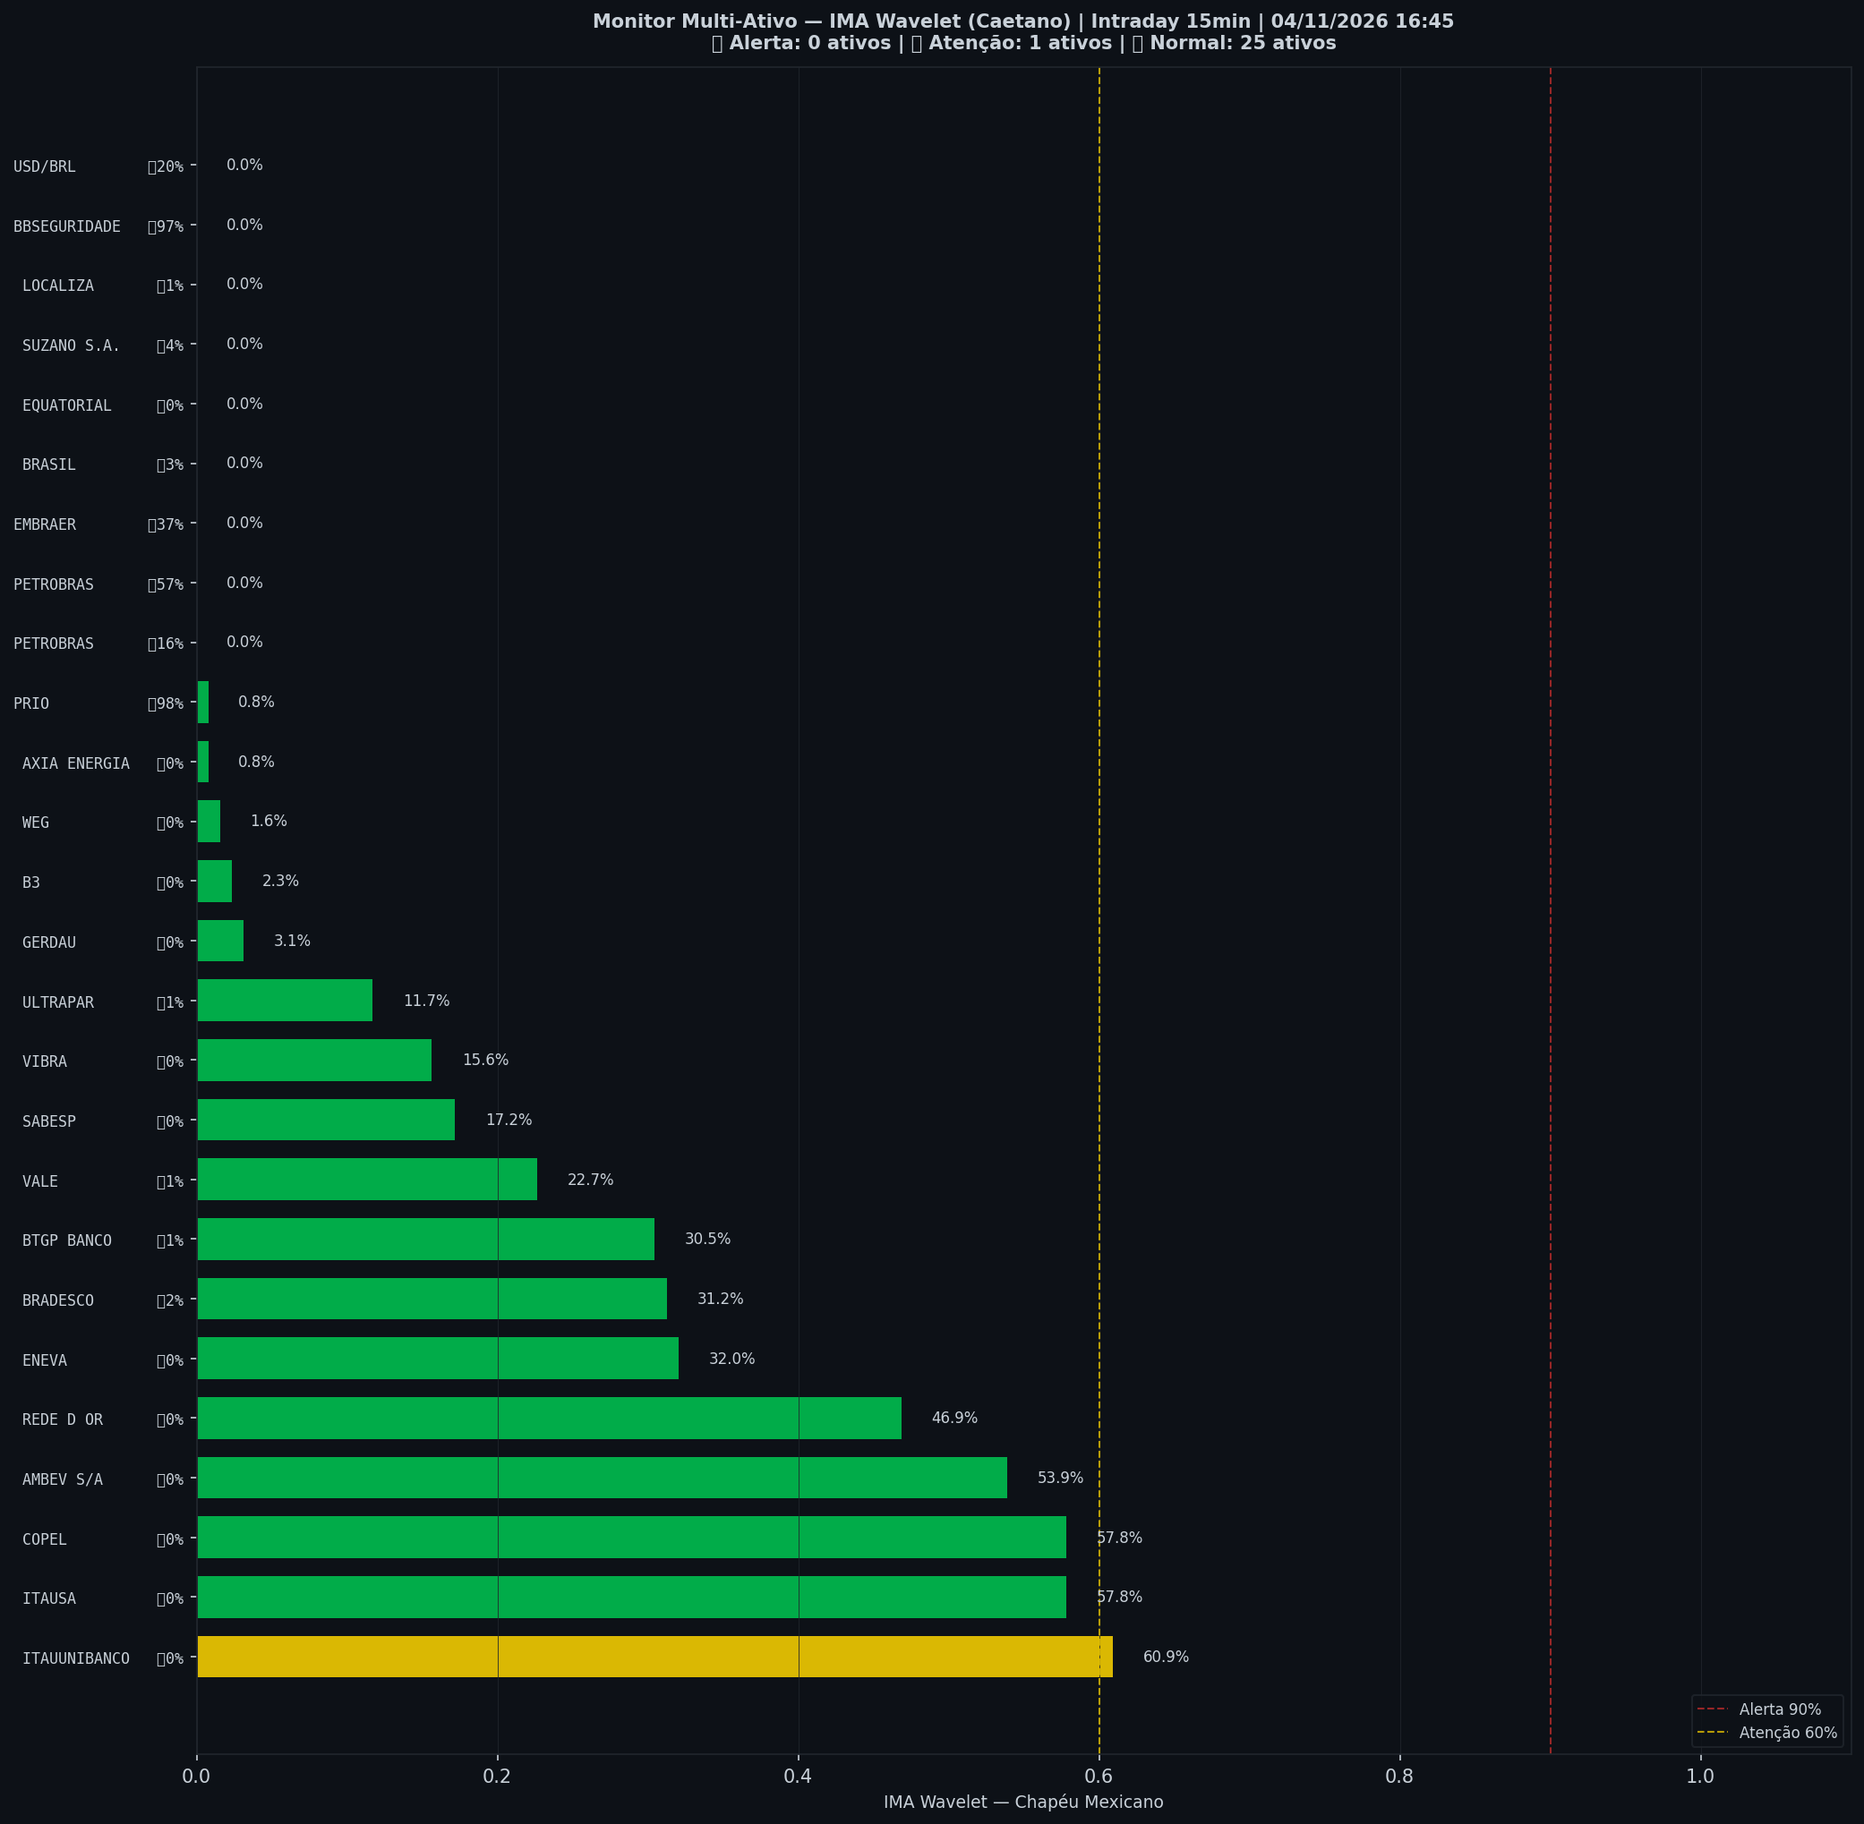
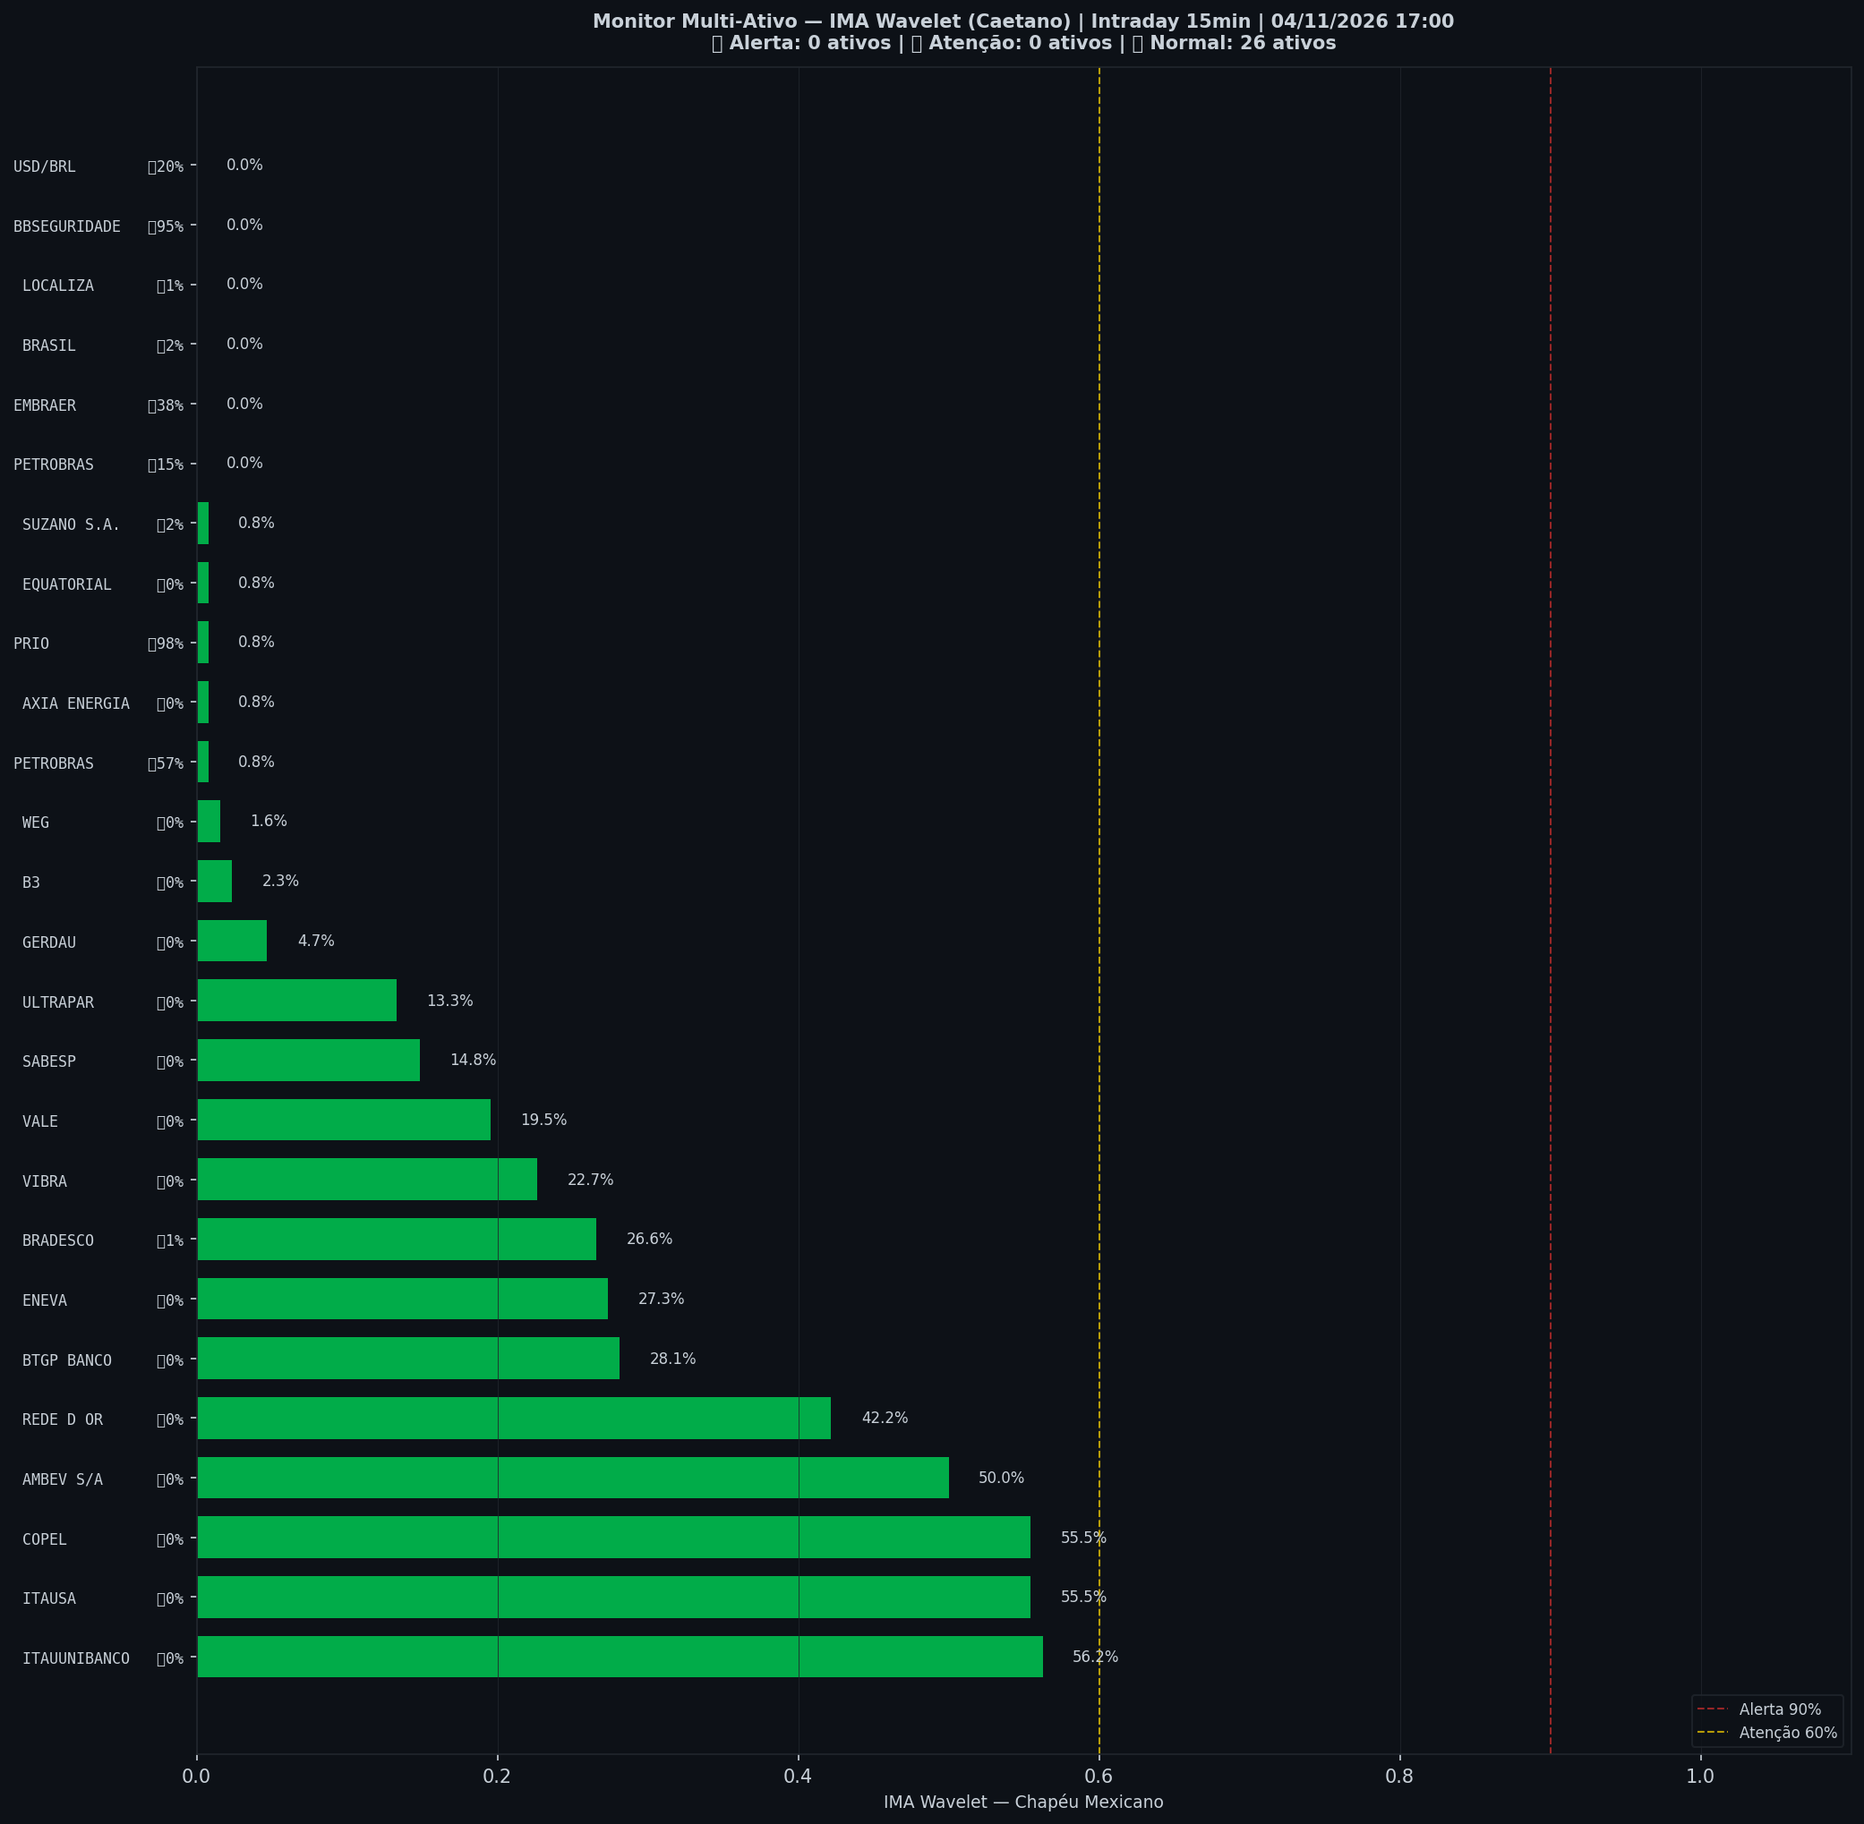
🤖 Auto: Sinal 04/11/2026 17:00

diff --git a/content/intraday/2026-11-04.md b/content/intraday/2026-11-04.md
@@ -1,10 +1,10 @@
 ---
-title: "🟢 Intraday 04/11/2026 16:30 BRT — VERDE"
+title: "🟢 Intraday 04/11/2026 16:45 BRT — VERDE"
 date: 2026-11-04
 tags: [intraday]
 ---
 
-> [!success] Onde o mercado está agora (04/11 16:30, candles de 15 min): **🟢 Calmo**
+> [!success] Onde o mercado está agora (04/11 16:45, candles de 15 min): **🟢 Calmo**
 > `Pânico ◀──────────●──────────▶ Euforia`
 >
 > O Ibovespa está dentro da sua faixa normal, sem excesso para cima nem para baixo.
@@ -20,8 +20,8 @@ tags: [intraday]
 > | 📍 **Sinais** | hoje: nenhum sinal | [abrir](sinais-topo-fundo/) |
 > | 🧪 **Placar ao vivo** | 1 operação(ões), 0 com lucro, soma -0,8% | [abrir](operacoes/) |
 
-> [!success] IMA Intraday · 15 min (04/11 16:30): 🟢 **VERDE** — Risco 5% · ▼ -3 p.p. vs leitura anterior
-> `█░░░░░░░░░░░░░░░░░░░`
+> [!success] IMA Intraday · 15 min (04/11 16:45): 🟢 **VERDE** — Risco 1% · ▼ -4 p.p. vs leitura anterior
+> `░░░░░░░░░░░░░░░░░░░░`
 > Preço na faixa normal em torno da tendência.
 
 
@@ -32,13 +32,13 @@ tags: [intraday]
 >
 > *Leitura educacional baseada em 26 anos de dados, não recomendação. [Como usar](../metodologia/crise#3-como-usar-na-prática).*
 
-| Indicador — IMA Intraday · 15 min (04/11 16:30) | Valor |
+| Indicador — IMA Intraday · 15 min (04/11 16:45) | Valor |
 |---|---|
-| 🔴 ζ Topo — preço esticado acima da tendência | **5%** |
+| 🔴 ζ Topo — preço esticado acima da tendência | **1%** |
 | 🔵 ζ Fundo — preço esticado abaixo da tendência | 0% |
 | 🫧 LPPL bolha — alta super-exponencial (risco de crash) | 0% |
 | 🫧 LPPL antibolha — queda super-exponencial (risco de repique) | 0% |
-| 📊 Ibovespa | 167.281 pts |
+| 📊 Ibovespa | 167.331 pts |
 
 ![Gráfico do sinal](../graficos/sinal_intraday.png)
 
@@ -46,6 +46,7 @@ tags: [intraday]
 
 | Data | Zona | Evento | Risco | ζ Topo | ζ Fundo | LPPL |
 |---|---|---|---|---|---|---|
+| 2026-11-04 16:45 | 🟢 VERDE |  | **1%** | 1% | 0% | 0% |
 | 2026-11-04 16:30 | 🟢 VERDE |  | **5%** | 5% | 0% | 0% |
 | 2026-11-04 16:15 | 🟢 VERDE |  | **8%** | 8% | 0% | 0% |
 | 2026-11-04 16:00 | 🟢 VERDE |  | **12%** | 12% | 0% | 0% |
@@ -75,51 +76,50 @@ tags: [intraday]
 | 2026-11-04 10:00 | 🟢 VERDE |  | **27%** | 27% | 1% | 0% |
 | 2026-11-03 18:00 | 🟢 VERDE |  | **28%** | 28% | 0% | 0% |
 | 2026-11-03 17:45 | 🟢 VERDE |  | **29%** | 29% | 0% | 0% |
-| 2026-11-03 17:30 | 🟢 VERDE |  | **30%** | 30% | 0% | 0% |
 
 <small>Destaques: 🟡 ≥ 60% · 🔴 ≥ 90% (Risco e ζ Topo) · 🔵 ≥ 60% · 🔪 ≥ 90% (ζ Fundo) · 🫧 ≥ 30% · 🫧🔴 ≥ 50% (LPPL)</small>
 
 ## Monitor Multi-Ativo
 
-**4% dos ativos em tensão** (0🔴 4🟡) · **2 com ζ Fundo alto** — quanto mais ativos disparam juntos, mais confiável o sinal.
+**0% dos ativos em tensão** (0🔴 4🟡) · **2 com ζ Fundo alto** — quanto mais ativos disparam juntos, mais confiável o sinal.
 
 > [!danger] Em destaque no multi-ativo
-> 🔪 **PRIO** ζ Fundo 98% · 🔪 **BBSEGURIDADE** ζ Fundo 97% · 🟡 **ITAUUNIBANCO** ζ Topo 61%
+> 🔪 **PRIO** ζ Fundo 98% · 🔪 **BBSEGURIDADE** ζ Fundo 95%
 
 | Zona | Ativo | Setor | ζ Topo | ζ Fundo |
 |---|---|---|---|---|
 | 🟢 | **PRIO** | Petróleo | 0.8% | 🔪 **98.4%** |
-| 🟢 | **BBSEGURIDADE** | Financeiro | 0.0% | 🔪 **96.9%** |
-| 🟡 | **ITAUUNIBANCO** | Financeiro | 🟡 **60.9%** | 0.0% |
-| 🟡 | **ITAUSA** | Financeiro | 57.8% | 0.0% |
-| 🟡 | **COPEL** | Energia | 57.8% | 0.0% |
-| 🟢 | **PETROBRAS** | Petróleo | 0.0% | 57.0% |
-| 🟡 | **AMBEV S/A** | Consumo | 53.9% | 0.0% |
-| 🟢 | **REDE D OR** | Saúde | 46.9% | 0.0% |
-| 🟢 | **EMBRAER** | Outros | 0.0% | 36.7% |
-| 🟢 | **ENEVA** | Energia | 32.0% | 0.0% |
-| 🟢 | **BRADESCO** | Financeiro | 31.2% | 1.6% |
-| 🟢 | **BTGP BANCO** | Financeiro | 30.5% | 0.8% |
-| 🟢 | **VALE** | Mineração | 22.7% | 0.8% |
+| 🟢 | **BBSEGURIDADE** | Financeiro | 0.0% | 🔪 **94.5%** |
+| 🟢 | **PETROBRAS** | Petróleo | 0.8% | 57.0% |
+| 🟡 | **ITAUUNIBANCO** | Financeiro | 56.2% | 0.0% |
+| 🟡 | **ITAUSA** | Financeiro | 55.5% | 0.0% |
+| 🟡 | **COPEL** | Energia | 55.5% | 0.0% |
+| 🟡 | **AMBEV S/A** | Consumo | 50.0% | 0.0% |
+| 🟢 | **REDE D OR** | Saúde | 42.2% | 0.0% |
+| 🟢 | **EMBRAER** | Outros | 0.0% | 38.3% |
+| 🟢 | **BTGP BANCO** | Financeiro | 28.1% | 0.0% |
+| 🟢 | **ENEVA** | Energia | 27.3% | 0.0% |
+| 🟢 | **BRADESCO** | Financeiro | 26.6% | 0.8% |
+| 🟢 | **VIBRA** | Energia | 22.7% | 0.0% |
 | 🟢 | **USD/BRL** | Câmbio | 0.0% | 20.3% |
-| 🟢 | **SABESP** | Saneamento | 17.2% | 0.0% |
-| 🟢 | **PETROBRAS** | Petróleo | 0.0% | 15.6% |
-| 🟢 | **VIBRA** | Energia | 15.6% | 0.0% |
-| 🟢 | **ULTRAPAR** | Outros | 11.7% | 0.8% |
-| 🟢 | **SUZANO S.A.** | Papel/Celulose | 0.0% | 3.9% |
-| 🟢 | **BRASIL** | Financeiro | 0.0% | 3.1% |
-| 🟢 | **GERDAU** | Siderurgia | 3.1% | 0.0% |
+| 🟢 | **VALE** | Mineração | 19.5% | 0.0% |
+| 🟢 | **PETROBRAS** | Petróleo | 0.0% | 14.8% |
+| 🟢 | **SABESP** | Saneamento | 14.8% | 0.0% |
+| 🟢 | **ULTRAPAR** | Outros | 13.3% | 0.0% |
+| 🟢 | **GERDAU** | Siderurgia | 4.7% | 0.0% |
 | 🟢 | **B3** | Financeiro | 2.3% | 0.0% |
 | 🟢 | **WEG** | Industrial | 1.6% | 0.0% |
+| 🟢 | **BRASIL** | Financeiro | 0.0% | 1.6% |
+| 🟢 | **SUZANO S.A.** | Papel/Celulose | 0.8% | 1.6% |
 | 🟢 | **AXIA ENERGIA** | Energia | 0.8% | 0.0% |
+| 🟢 | **EQUATORIAL** | Energia | 0.8% | 0.0% |
 | 🟢 | **LOCALIZA** | Aluguel | 0.0% | 0.8% |
-| 🟢 | **EQUATORIAL** | Energia | 0.0% | 0.0% |
 
 <small>Destaques: 🟡 ≥ 60% · 🔴 ≥ 90% (Risco e ζ Topo) · 🔵 ≥ 60% · 🔪 ≥ 90% (ζ Fundo) · 🫧 ≥ 30% · 🫧🔴 ≥ 50% (LPPL)</small>
 
 ![Monitor multi-ativo](../graficos/multi_intraday.png)
 
-*Página atualizada em 04/11/2026 16:45 BRT (leitura da barra de 2026-11-04 16:30 BRT).*
+*Página atualizada em 04/11/2026 17:00 BRT (leitura da barra de 2026-11-04 16:45 BRT).*
 
 > [!warning] O que este indicador não faz
 > Medido em 5 anos de Ibovespa, o ζ **não antecipa** topos nem fundos: a capacidade de separar o que sobe do que cai ficou em 0,49–0,52, e 0,50 é moeda jogada ao ar. Ele descreve o estado de agora; não é aviso do que vem. As zonas verde/amarelo/vermelho continuam na página como descrição desse estado — **não as use como sinal de entrada ou saída**.

diff --git a/content/index.md b/content/index.md
@@ -6,9 +6,9 @@ tags: [home]
 
 **As ondas do mercado, explicadas.** Leitura do Ibovespa com estatística de 26 anos, baseada no trabalho de pesquisadores e traders reconhecidos e adaptada por Jarbas Daniel da Costa.
 
-*Última atualização: 04/11/2026 16:45 BRT · Intraday 15min*
+*Última atualização: 04/11/2026 17:00 BRT · Intraday 15min*
 
-> [!success] Onde o mercado está agora (04/11 16:30, candles de 15 min): **🟢 Calmo**
+> [!success] Onde o mercado está agora (04/11 16:45, candles de 15 min): **🟢 Calmo**
 > `Pânico ◀──────────●──────────▶ Euforia`
 >
 > O Ibovespa está dentro da sua faixa normal, sem excesso para cima nem para baixo.
@@ -20,7 +20,7 @@ tags: [home]
 
 | Módulo | Agora | |
 |---|---|---|
-| 🌊 **Sinal de Crise** | 🟢 VERDE · 🟢 calmo · ζ Topo 5% | [relatório](intraday/2026-11-04) |
+| 🌊 **Sinal de Crise** | 🟢 VERDE · 🟢 calmo · ζ Topo 1% | [relatório](intraday/2026-11-04) |
 | 📈 **Tendência MME9** | Diário — fora<br>Semanal — fora | [abrir](operacoes/tendencia) |
 | 🎯 **Entradas do método** | ⏳ aguardando: Diário · Nadaraya, H4 · Semáforo N2, Diário · Semáforo N3 após ζ Fundo | [abrir](operacoes/entradas) |
 | 📍 **Sinais** | hoje: nenhum sinal | [abrir](sinais-topo-fundo/) |
@@ -54,26 +54,26 @@ tags: [home]
 > *Leitura educacional baseada em 26 anos de dados, não recomendação. [Como usar](metodologia/crise#3-como-usar-na-prática).*
 
 > [!info]- 🌊 Detalhes do Sinal de Crise (indicadores e últimos 7 pregões)
-> > [!success] IMA Intraday · 15 min (04/11 16:30): 🟢 **VERDE** — Risco 5% · ▼ -3 p.p. vs leitura anterior
-> > `█░░░░░░░░░░░░░░░░░░░`
+> > [!success] IMA Intraday · 15 min (04/11 16:45): 🟢 **VERDE** — Risco 1% · ▼ -4 p.p. vs leitura anterior
+> > `░░░░░░░░░░░░░░░░░░░░`
 > > Preço na faixa normal em torno da tendência.
 >
 >
-> | Indicador — IMA Intraday · 15 min (04/11 16:30) | Valor |
+> | Indicador — IMA Intraday · 15 min (04/11 16:45) | Valor |
 > |---|---|
-> | 🔴 ζ Topo — preço esticado acima da tendência | **5%** |
+> | 🔴 ζ Topo — preço esticado acima da tendência | **1%** |
 > | 🔵 ζ Fundo — preço esticado abaixo da tendência | 0% |
 > | 🫧 LPPL bolha — alta super-exponencial (risco de crash) | 0% |
 > | 🫧 LPPL antibolha — queda super-exponencial (risco de repique) | 0% |
-> | 📊 Ibovespa | 167.281 pts |
+> | 📊 Ibovespa | 167.331 pts |
 >
-> **Multi-ativo:** 4% em tensão (0🔴 4🟡 de 26 ativos)
+> **Multi-ativo:** 0% em tensão (0🔴 4🟡 de 26 ativos)
 >
 > **Últimos 7 pregões**
 >
 > | Data | Zona | Risco | ζ Topo | ζ Fundo | LPPL |
 > |---|---|---|---|---|---|
-> | [04/11/2026](intraday/2026-11-04) | 🟢 VERDE | **5%** | 5% | 0% | 0% |
+> | [04/11/2026](intraday/2026-11-04) | 🟢 VERDE | **1%** | 1% | 0% | 0% |
 > | [03/11/2026](intraday/2026-11-03) | 🟢 VERDE | **28%** | 28% | 0% | 0% |
 >
 > <small>Destaques: 🟡 ≥ 60% · 🔴 ≥ 90% (Risco e ζ Topo) · 🔵 ≥ 60% · 🔪 ≥ 90% (ζ Fundo) · 🫧 ≥ 30% · 🫧🔴 ≥ 50% (LPPL)</small>

diff --git a/content/operacoes/entradas.md b/content/operacoes/entradas.md
@@ -31,7 +31,7 @@ description: "Compra depois de um sinal de fundo: Nadaraya no diário, semáforo
 > | Diário · Semáforo N3 após ζ Fundo | 07/07/26 a 172.021 | 10/08/26 a 172.021 | **+0,0%** | stop no preço de entrada |
 > | H4 · Semáforo N2 | 12/06/26 14h a 171.134 | 15/06/26 14h a 171.134 | **+0,0%** | stop no preço de entrada |
 >
-> <small>Atualizado 03/11 19:02 · checado no pregão às 16:45. Nota: ✅ passou no teste fora da amostra (walk-forward 2008–2026) · 🧪 em teste (H4, com aviso no Telegram) ou em observação (ζ, sem aviso) · 🧪 na tabela = operação do teste ao vivo.</small>
+> <small>Atualizado 03/11 19:02 · checado no pregão às 17:00. Nota: ✅ passou no teste fora da amostra (walk-forward 2008–2026) · 🧪 em teste (H4, com aviso no Telegram) ou em observação (ζ, sem aviso) · 🧪 na tabela = operação do teste ao vivo.</small>
 >
 > *Regras: depois de um sinal de fundo, o Diário entra quando o Nadaraya vira para cima; o Semanal e o H4 entram quando um fundo do semáforo fica fixo. Stop e saída de cada regra na [metodologia](metodologia/regras-de-operacao#entradas-do-método). Nenhuma regra de venda passou no teste. Os números do histórico têm viés de escolha (overfitting); o placar ao vivo é o que vale. Leitura educacional do método, não recomendação.*
 

diff --git a/content/historico.md b/content/historico.md
@@ -5,7 +5,7 @@ tags: [historico]
 
 # 📜 Histórico de leituras (v5)
 
-**2.136 leituras** desde 2026-07-03. Na página ficam os últimos 3 dias leitura por leitura e o resumo de cada dia anterior; o registro inteiro está no arquivo para baixar.
+**2.137 leituras** desde 2026-07-03. Na página ficam os últimos 3 dias leitura por leitura e o resumo de cada dia anterior; o registro inteiro está no arquivo para baixar.
 
 [**Baixar o histórico completo**](historico-completo.csv) (94 KB · abre no Excel e no LibreOffice)
 
@@ -16,6 +16,7 @@ tags: [historico]
 
 | Data | Modo | Zona | Risco | IMA | LPPL |
 |---|---|---|---|---|---|
+| 2026-11-04 16:45 | intraday | 🟢 VERDE | 1% | 1% | 0% |
 | 2026-11-04 16:30 | intraday | 🟢 VERDE | 5% | 5% | 0% |
 | 2026-11-04 16:15 | intraday | 🟢 VERDE | 8% | 8% | 0% |
 | 2026-11-04 16:00 | intraday | 🟢 VERDE | 12% | 12% | 0% |

diff --git a/content/operacoes/ranking.md b/content/operacoes/ranking.md
@@ -5,7 +5,7 @@ tags: [operacoes]
 description: "As regras de compra do site ordenadas pelo resultado, com treino, teste e placar ao vivo"
 ---
 
-*Atualizado 04/11/2026 16:45 · histórico simulado com as regras congeladas em 23/10/2026 + placar ao vivo.*
+*Atualizado 04/11/2026 17:00 · histórico simulado com as regras congeladas em 23/10/2026 + placar ao vivo.*
 
 As regras de compra do site, **da que mais rendeu para a que menos rendeu**. O resultado é por operação, no índice à vista, sem custos e sem juros compostos (a soma é só a soma das operações). **Treino** = entradas de 2001 a 2013 e **teste** = 2014 em diante: uma regra só é confiável se ganhou nos dois. O único resultado sem nenhum ajuste ao histórico é o **placar ao vivo**.
 

diff --git a/content/linha-do-tempo/index.md b/content/linha-do-tempo/index.md
@@ -5,7 +5,7 @@ description: "Todo sinal, ordem, stop e aviso do Pêndulo de Mercado, do mais re
 tags: [eventos]
 ---
 
-*Atualizada 04/11/2026 16:45 BRT · a cada 15 min no pregão e às 19h.*
+*Atualizada 04/11/2026 17:00 BRT · a cada 15 min no pregão e às 19h.*
 
 Tudo o que o sistema fez ou detectou, **do mais recente para o mais antigo**: sinais de topo e fundo, ordens de compra e de venda armadas, compras, vendas, stops, avisos de 🚨 preço perto do nível e mudanças da Crise. Os **últimos 7 dias** ficam abertos; o resto, por **ano → mês → dia**.
 
